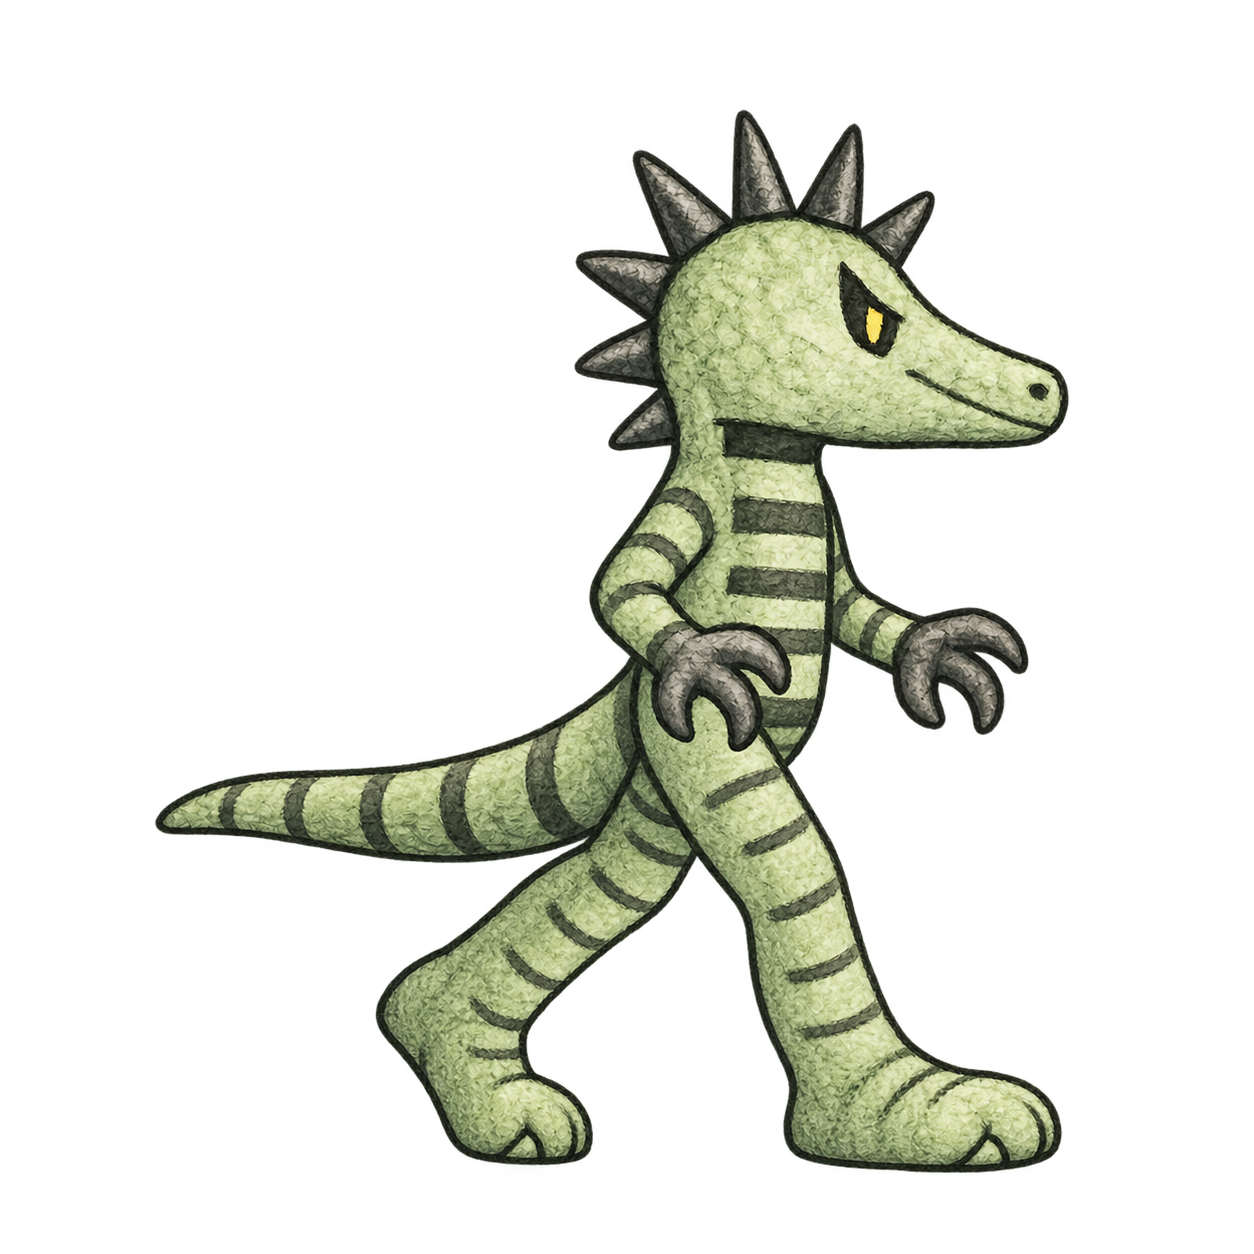
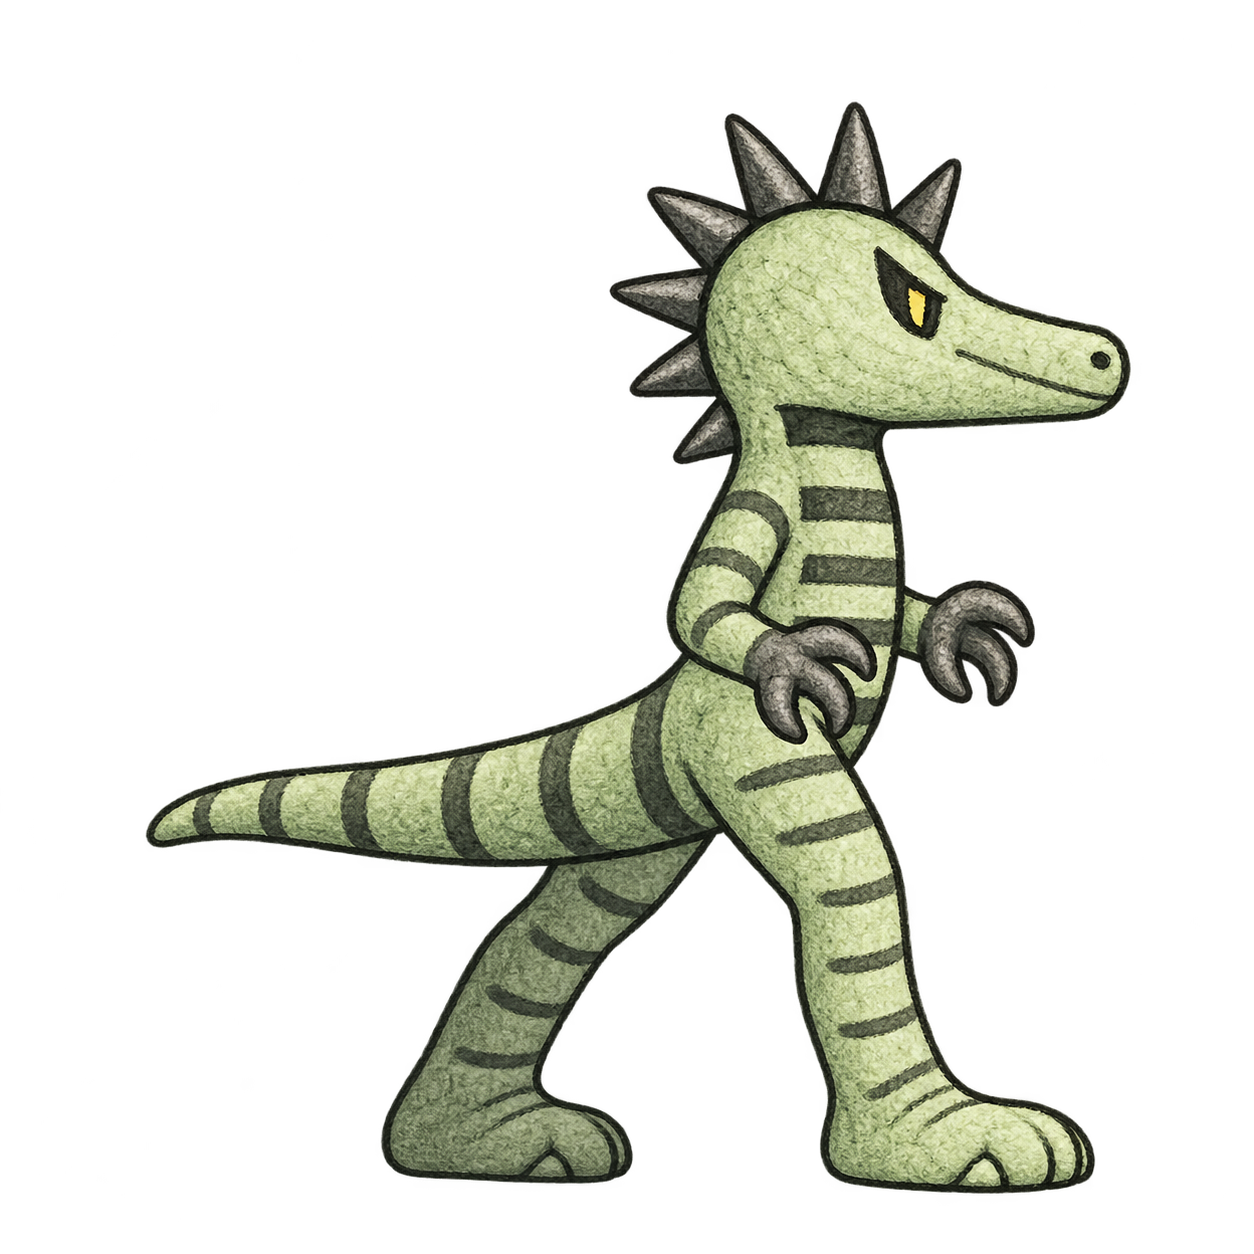
dino: grafika — cykl chodu tyranno + atak i ziejenie ogniem
Nowy wątek w ChatGPT, klatka po klatce, z referencją stylu (idle-1.png).
Kluczem do rozróżnienia kontaktów okazała się jawna okluzja: noga bliższa
widza rysowana przed tułowiem w pełnym jasnym kolorze, noga dalsza za
tułowiem i przyciemniona o ~25%. Wtedy generator ma sygnał, którego może
się chwycić przy zamianie stron.

Pasma (10 klatek, kadr 233x188 — arkusz jest podmianką 1:1 za obecny
char-tyranno.png, TYRANNO_ANIM w sprites.js zostaje bez zmian):

- walk 1..4: kontakt A, przejście (noga dalsza w powietrzu za tułowiem),
  kontakt B, przejście (noga bliższa, kolano do przodu)
- attack 1..3: zamach, uderzenie, wyprowadzenie ciosu
- breath 1..3: nabranie powietrza, pierwszy podmuch, pełny strumień

Pomiary klatek kontaktu (tools/measure_frames.py, tools/leg_tone.py):
stopy walk-1 [(36,49),(67,88)] vs walk-3 [(33,55),(66,88)], po jednej
plamie stóp w walk-2 i walk-4, nigdzie trzeciej nogi. Jasność nóg
odwraca się: walk-1 przednia-tylna = +44.6, walk-3 = -39.7, czyli
zamiana nogi bliższej z dalszą naprawdę zaszła. Surowa różnica
pikselowa walk-1 vs walk-3 to 24.2 — poniżej progu 35, bo obie pozy
kontaktu mają z definicji ten sam rozstaw stóp; różnicę niesie
tonacja nóg, nie sylwetka.

Arkusz zapisany jako assets/char-tyranno-new.png (bez podmiany).
Nieudane próby z poprzedniej sesji i warianty kontaktu B wylądowały
w assets-src/tyranno/odrzucone/.

Claude-Session: https://claude.ai/code/session_012DKLRJUD9h7JTMjRqBJKxK

Changed region(s): [[0.0933, 0.0622, 0.9019, 0.9641]]

diff --git a/dino-vs-kosmici/tools/measure_frames.py b/dino-vs-kosmici/tools/measure_frames.py
@@ -1,0 +1,71 @@
+#!/usr/bin/env python3
+"""Pomiar klatek chodu: pozycje stop, liczba nog, roznica pikselowa."""
+import sys, itertools
+from PIL import Image, ImageChops
+
+
+def load(p):
+    im = Image.open(p).convert('RGBA')
+    bb = im.getchannel('A').getbbox()
+    return im.crop(bb)
+
+
+def norm(p, size=(320, 320)):
+    im = load(p)
+    r = im.copy()
+    r.thumbnail(size, Image.LANCZOS)
+    o = Image.new('RGBA', size, (0, 0, 0, 0))
+    o.paste(r, ((size[0] - r.size[0]) // 2, size[1] - r.size[1]))
+    return o
+
+
+def runs_at(im, frac_lo, frac_hi, min_frac=0.03):
+    """Plamy nieprzezroczystosci w poziomym pasie [frac_lo, frac_hi] wysokosci."""
+    a = im.getchannel('A')
+    w, h = im.size
+    band = a.crop((0, int(h * frac_lo), w, max(int(h * frac_hi), int(h * frac_lo) + 1)))
+    # kolumna jest "pelna" jesli ktorykolwiek piksel w pasie jest nieprzezroczysty
+    px = band.load()
+    bw, bh = band.size
+    data = [1 if any(px[x, y] > 40 for y in range(bh)) else 0 for x in range(bw)]
+    out = []
+    start = None
+    for x, v in enumerate(data + [0]):
+        if v and start is None:
+            start = x
+        elif not v and start is not None:
+            if x - start > w * min_frac:
+                out.append((round(start / w * 100), round(x / w * 100)))
+            start = None
+    return out
+
+
+def feet(p):
+    return runs_at(load(p), 0.94, 1.0)
+
+
+def legs(p):
+    return runs_at(load(p), 0.72, 0.80)
+
+
+def diff(a, b):
+    ia, ib = norm(a), norm(b)
+    d = ImageChops.difference(ia.convert('RGB'), ib.convert('RGB'))
+    hist = d.convert('L').histogram()
+    tot = sum(hist)
+    return sum(i * n for i, n in enumerate(hist)) / tot
+
+
+def main(paths):
+    print(f"{'plik':<28} {'stopy (%)':<34} {'nogi@76% (%)'}")
+    for p in paths:
+        import os
+        print(f"{os.path.basename(p):<28} {str(feet(p)):<34} {legs(p)}")
+    print()
+    for a, b in itertools.combinations(paths, 2):
+        import os
+        print(f"diff {os.path.basename(a):<16} vs {os.path.basename(b):<16} = {diff(a,b):.1f}")
+
+
+if __name__ == '__main__':
+    main(sys.argv[1:])

diff --git a/dino-vs-kosmici/tools/leg_tone.py b/dino-vs-kosmici/tools/leg_tone.py
@@ -1,0 +1,34 @@
+#!/usr/bin/env python3
+"""Srednia jasnosc lewej (tylnej) i prawej (przedniej) nogi ponizej 80% wysokosci."""
+import sys, os
+from PIL import Image
+
+
+def tone(p):
+    im = Image.open(p).convert('RGBA')
+    im = im.crop(im.getchannel('A').getbbox())
+    w, h = im.size
+    leg = im.crop((0, int(h * 0.80), w, h))
+    px = leg.load()
+    lw, lh = leg.size
+    # podzial w polowie szerokosci obszaru zajetego przez nogi
+    xs = [x for x in range(lw) for y in range(lh) if px[x, y][3] > 40]
+    if not xs:
+        return None
+    mid = (min(xs) + max(xs)) // 2
+    res = []
+    for lo, hi in ((min(xs), mid), (mid, max(xs) + 1)):
+        vals = []
+        for x in range(lo, hi):
+            for y in range(lh):
+                r, g, b, a = px[x, y]
+                if a > 200:
+                    vals.append(0.299 * r + 0.587 * g + 0.114 * b)
+        res.append(sum(vals) / len(vals) if vals else 0)
+    return res
+
+
+for p in sys.argv[1:]:
+    t = tone(p)
+    print(f"{os.path.basename(p):<14} tylna(lewa)={t[0]:6.1f}  przednia(prawa)={t[1]:6.1f}  "
+          f"roznica={t[1]-t[0]:+6.1f}")

diff --git a/dino-vs-kosmici/tools/README.md b/dino-vs-kosmici/tools/README.md
@@ -86,6 +86,38 @@ Cięcie `assets/char-tyranno.png` i złożenie z `--no-scale --frame-w 233 --fra
 (różnica 0 po wyrównaniu bbox), a przesunięcie w miejscu wynosi ≤2 px w poziomie
 i ≤5 px w pionie, bo oryginał nie miał wyrównanej linii stóp.
 
+## measure_frames.py — obiektywna kontrola klatek
+
+Nie oceniaj poz "na oko" — generator obrazów potrafi zwrócić dwie klatki, które
+wyglądają na różne, a mają tę samą pozę nóg.
+
+```bash
+.venv/bin/python measure_frames.py ../assets-src/tyranno/walk-1.png ../assets-src/tyranno/walk-3.png
+```
+
+Dla każdego pliku wypisuje:
+
+- **stopy (%)** — plamy nieprzezroczystości w dolnych 6 % wysokości bbox, jako zakresy
+  w procentach szerokości. Klatka kontaktu ma **dwie** plamy, klatka przejścia (nogi
+  złączone) **jedną**. Trzecia plama = artefakt trzeciej nogi.
+- **nogi@76 %** — to samo w pasie 72–80 % wysokości, do wyłapania dodatkowej nogi
+  tam, gdzie stopy się zlewają.
+- **diff** — średnia różnica pikselowa (0–255) każdej pary po wyrównaniu do wspólnego
+  kadru 320×320 i linii stóp. Poniżej ~20 klatki są praktycznie identyczne.
+
+## leg_tone.py — która noga jest bliżej widza
+
+```bash
+.venv/bin/python leg_tone.py ../assets-src/tyranno/walk-1.png ../assets-src/tyranno/walk-3.png
+```
+
+Liczy średnią jasność nieprzezroczystych pikseli poniżej 80 % wysokości, osobno dla
+lewej (tylnej) i prawej (przedniej) połowy obszaru nóg. W widoku z boku noga bliższa
+widza jest rysowana jaśniej i przed tułowiem, dalsza ciemniej i za nim — więc
+**znak różnicy** mówi, która noga jest wysunięta do przodu. Dwie klatki kontaktu
+tego samego cyklu muszą mieć różnicę o **przeciwnych znakach**; jeśli znak jest ten
+sam, generator nie zamienił nóg, choćby poza wyglądała inaczej.
+
 ## Ograniczenia
 
 - Flood-fill idzie tylko od krawędzi: zamknięta "dziura" w kolorze tła wewnątrz
